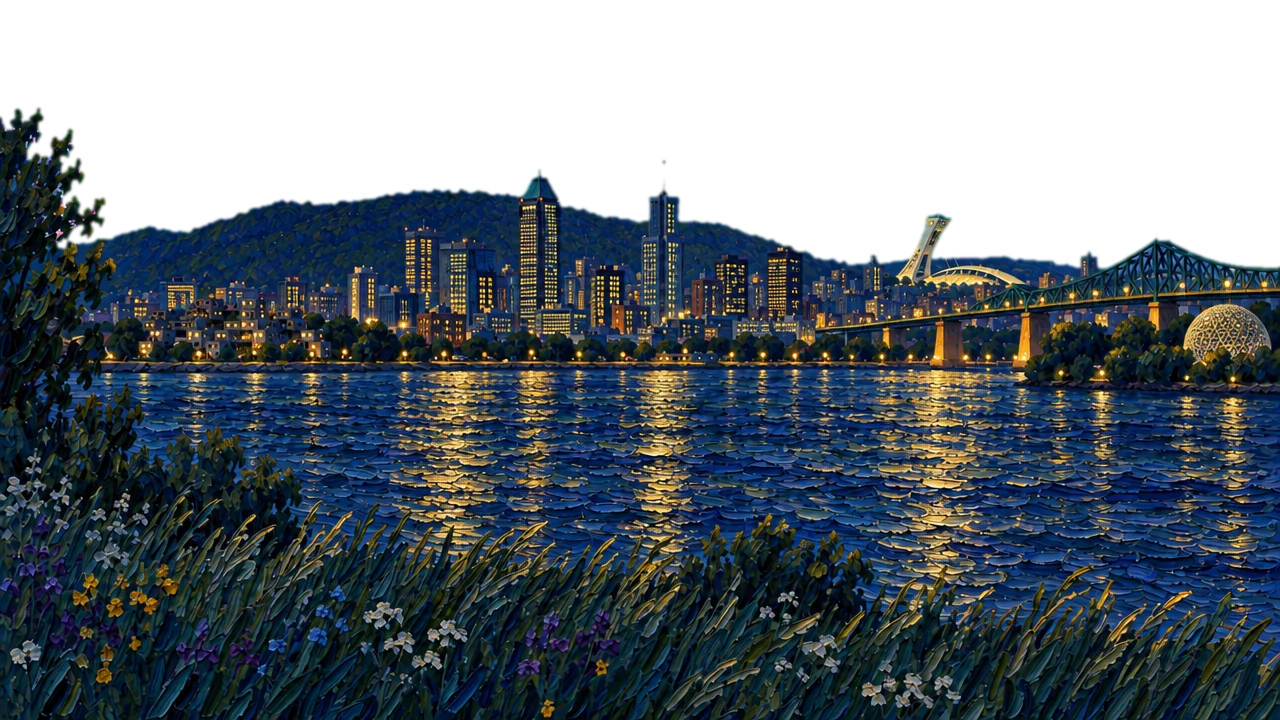
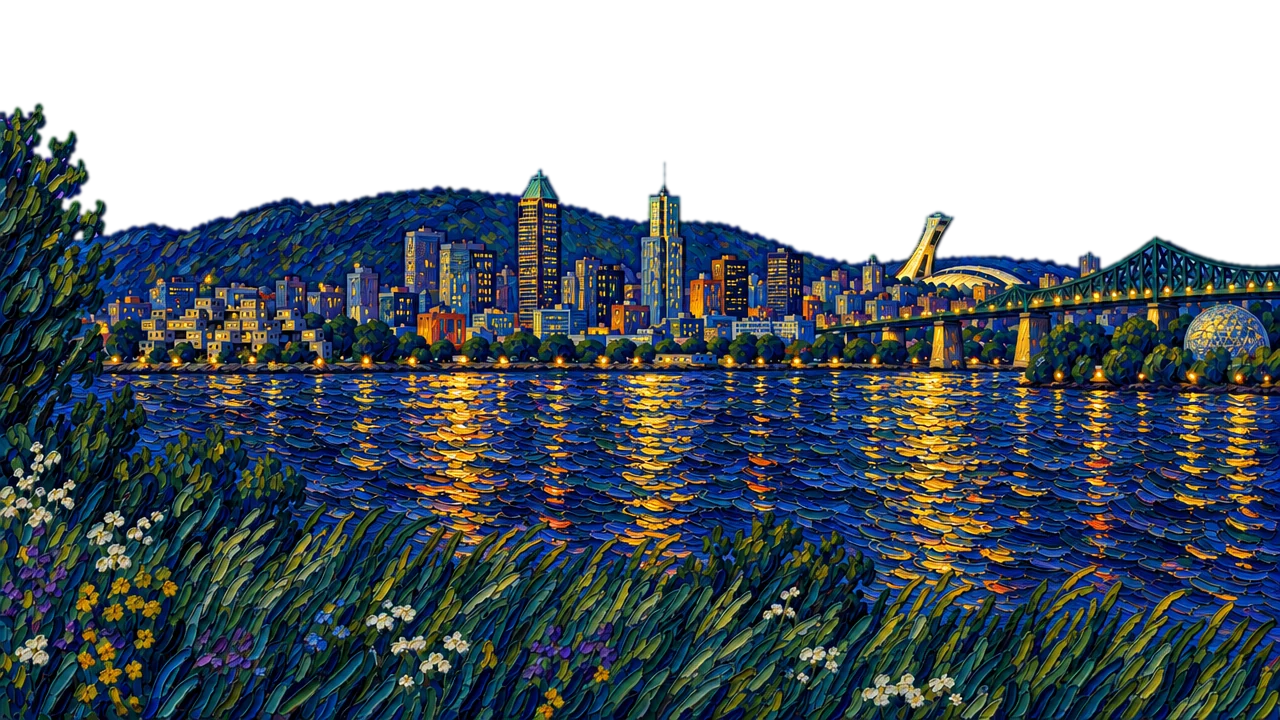
Smooth flowing sky, sun above the skyline, Montreal repainted in Van Gogh style
The sky strokes now flow continuously along the brush direction (two
offset layers on staggered phases, so nothing blinks or slides sideways).
The sun and moon rise and set at each city's skyline and the dusk glow sits
just above it. Montreal's day and night paintings are redone in the same
Van Gogh style as Tel Aviv.

diff --git a/js/scene/engine.js b/js/scene/engine.js
@@ -106,7 +106,7 @@ uniform float uKind, uWave;
 uniform vec3 uPDay[13], uPNight[13];
 uniform float uGlow[13];
 uniform sampler2D uPlA, uPlB;            // painted plates: day and night, the sky cut out in alpha
-uniform float uImgAspect, uWarm, uPlFade;
+uniform float uImgAspect, uWarm, uPlFade, uSkyY;
 uniform vec4 uBand;                      // image v: sky ends, water starts, water ends, grass starts
 out vec4 o;
 vec3 overlay(vec3 b, float a){ return mix(2. * a * b, 1. - 2. * (1. - a) * (1. - b), step(.5, b)); }
@@ -150,12 +150,10 @@ vec4 flowStroke(vec2 p, float cell, float seed){
     vec4 h = hash4(c + seed * 31.7);
     vec2 ctr = c + h.xy;
     vec2 dir = flow(ctr * cell);
-    // each stroke glides along its own direction, then thins away while a new one is laid in
-    float life = fract(uT * (.035 + h.y * .03) + h.z * 7.);
-    vec2 d = q - ctr - dir * (life - .5) * .8;
+    vec2 d = q - ctr;
     d = vec2(dot(d, dir), dot(d, vec2(-dir.y, dir.x)));
     float len = 1.05 + h.w * .8, u = d.x / len;
-    float w = (.25 + h.z * .14) * (1. - u * u * .55) * smoothstep(0., .14, sin(3.14159 * life));
+    float w = (.25 + h.z * .14) * (1. - u * u * .55);
     if (abs(u) < 1. && abs(d.y) < w){
       float pr = fract(h.x * 7.13 + h.y * 3.71 + h.w * 1.37);
       if (pr > best){
@@ -167,19 +165,29 @@ vec4 flowStroke(vec2 p, float cell, float seed){
   }
   return res;
 }
+vec3 paintAt(vec2 sp, vec3 g, float fr, float seed){
+  vec4 k = flowStroke(sp, 14., seed);
+  // between the strokes the darker ground shows, as on a real canvas
+  vec3 c = k.w > 0. ? overlay(g, clamp(.5 + (k.x - .5) * .8 + (fr - .5) * .12, 0., 1.)) * (1. - .14 * abs(k.y))
+                    : g * mix(.74, .84, fr);
+  float on = step(0., k.w);
+  c = mix(c, c * vec3(1.1, 1.05, .82) + vec3(.07, .06, 0.), smoothstep(.75, .92, k.z) * .6 * (1. - uNight * .3) * on);
+  return mix(c, c * vec3(.8, .87, 1.1), smoothstep(.25, .08, k.z) * .5 * on);
+}
 vec3 skyCol(vec2 p, float y, float fr){
+  y *= uSkyY;
   vec3 g = y < .42 ? mix(uS1, uS2, y / .42) : mix(uS2, uS3, clamp((y - .42) / .28, 0., 1.));
   float gl0 = dot(g, vec3(.2126, .7152, .0722));
   g = clamp(mix(vec3(gl0), g, 1.45) * vec3(.94, .98, 1.08), 0., 1.);   // Van Gogh's skies are deeper and bluer than life
-  vec2 sp = p;
-  vec4 a = flowStroke(sp, 15., 1.), b = flowStroke(sp + 7., 9., 2.);
-  vec4 k = b.w > 0. && b.z > .45 ? b : a;           // small strokes lie over the big ones here and there
-  // between the strokes the darker ground shows, as on a real canvas
-  vec3 c = k.w > 0. ? overlay(g, clamp(.5 + (k.x - .5) * .8 + (fr - .5) * .12, 0., 1.)) * (1. - .14 * abs(k.y))
-                    : g * mix(.72, .82, fr);
-  float pick = k.z;
-  c = mix(c, c * vec3(1.1, 1.05, .82) + vec3(.07, .06, 0.), smoothstep(.75, .92, pick) * .6 * (1. - uNight * .3) * step(0., k.w));
-  c = mix(c, c * vec3(.8, .87, 1.1), smoothstep(.25, .08, pick) * .5 * step(0., k.w));
+  // the paint flows: two copies of the strokes slide along the local brush direction, each fading out
+  // as it is reset while the other is at its fullest, so the motion never jumps. Each patch of sky
+  // runs on its own phase, so the sky never pulses as one.
+  vec2 fd = flow(p);
+  float ph = uT / 9. + vnoise(p / 260.) * 2.;
+  float p0 = fract(ph), p1 = fract(ph + .5), w0 = 1. - abs(2. * p0 - 1.);
+  vec3 c0 = paintAt(p - fd * p0 * 46., g, fr, 1.), c1 = paintAt(p - fd * p1 * 46. + vec2(53., 29.), g, fr, 3.);
+  vec3 c = mix(c1, c0, smoothstep(.3, .7, w0));   // mostly one layer at a time, so the strokes stay crisp
+  float kt = clamp(.5 + dot(c - g, vec3(1.)) * 1.2, 0., 1.);   // how light the paint is here, for clouds and halos
   vec2 sc = floor(p / 38.); vec4 sth = hash4(sc + 5.1);
   float sd = length(p - (sc + .15 + sth.xy * .7) * 38.);
   float star = step(.72, sth.z) * smoothstep(1.5 + sth.w, .2, sd) * (.65 + .35 * sin(uT * 2. + sth.w * 30.));
@@ -200,7 +208,7 @@ vec3 skyCol(vec2 p, float y, float fr){
       float d1 = fbm((cp - vec2(0., 16.)) / vec2(340., 110.));
       float shade = clamp((d0 - d1) * 4.5 + .62, 0., 1.);
       vec3 light = mix(uS2 * 1.2 + .1, vec3(.98, .97, .95), uDay * .8), dark = mix(uS1 * 1.1, vec3(.62, .64, .7), uDay * .7);
-      c = mix(c, mix(dark, light, shade) * (.86 + k.x * .22 - .08 * abs(k.y)), a * .85);   // clouds are painted with the same strokes
+      c = mix(c, mix(dark, light, shade) * (.84 + kt * .26), a * .85);   // clouds are painted with the same strokes
       star *= 1. - a;
     }
   }
@@ -209,7 +217,7 @@ vec3 skyCol(vec2 p, float y, float fr){
     vec3 o = i == 0 ? uSun : uMoon;
     if (o.z <= 0.) continue;
     float d = length(p - o.xy * uRes), R = clamp(uRes.x * .035, 34., 54.);
-    float ring = exp(-d / (R * 2.6)) * (.55 + .45 * sin(d * .16 - uT * 1.1 + k.x * 1.5)) * smoothstep(R * .95, R * 1.3, d);
+    float ring = exp(-d / (R * 2.6)) * (.55 + .45 * sin(d * .16 - uT * 1.1 + kt * 1.5)) * smoothstep(R * .95, R * 1.3, d);
     c += ring * o.z * (i == 0 ? vec3(1., .82, .35) * .5 : vec3(.95, .92, .7) * .38);
   }
   return c;
@@ -587,6 +595,7 @@ export function createEngine(cv){
     gl.uniform3fv(m.u('uSun'), sky.sun); gl.uniform3fv(m.u('uMoon'), sky.moon);
     gl.uniform1f(m.u('uNight'), sky.night); gl.uniform1f(m.u('uDay'), sky.day);
     gl.uniform1f(m.u('uCover'), live.cover); gl.uniform1f(m.u('uDrift'), live.drift); gl.uniform1f(m.u('uT'), live.rt);
+    gl.uniform1f(m.u('uSkyY'), scene?.horizon ? .66 / scene.horizon : 1);
     gl.uniform1f(m.u('uKind'), palette.kind); gl.uniform1f(m.u('uWave'), live.wind);
     if (palette.kind === 2){
       const A = plateTex('day'), B = plateTex('night') || A;

diff --git a/js/scene/sky.js b/js/scene/sky.js
@@ -30,12 +30,12 @@ export function newSky(){
   return {s1: [28, 33, 64], s2: [46, 47, 90], s3: [74, 63, 107], sun: [0, 0, 0], moon: [0, 0, 0], light: .36, sat: .7, night: 1, day: 0};
 }
 
-/** Writes the colours, orbs and light for `hourFrac` (local hours, 0..24) into `sky`. */
-export function paintSky(sky, hf, sunVeil = 0){
+/** Writes the colours, orbs and light for `hourFrac` (local hours, 0..24) into `sky`. `horizon`: where the orbs rise and set, as a fraction of the height. */
+export function paintSky(sky, hf, sunVeil = 0, horizon = .76){
   const [t, m, h] = skyAt(hf);
   sky.s1 = t; sky.s2 = m; sky.s3 = h;
-  // sun travels 6:00 -> 19:00, moon 19:00 -> 6:00, along an arc that dips behind the hills
-  const arc = p => [(8 + p * 84) / 100, (76 - Math.sin(Math.PI * Math.min(1, Math.max(0, p))) * 62) / 100, p >= -0.04 && p <= 1.04 ? 1 - sunVeil : 0];
+  // sun travels 6:00 -> 19:00, moon 19:00 -> 6:00, along an arc from the horizon (the hills, or a city's skyline) up to 14% from the top
+  const arc = p => [(8 + p * 84) / 100, horizon - Math.sin(Math.PI * Math.min(1, Math.max(0, p))) * (horizon - .14), p >= -0.04 && p <= 1.04 ? 1 - sunVeil : 0];
   sky.sun = arc((hf - 6) / 13);
   sky.moon = arc((((hf - 19) % 24) + 24) % 24 / 11);
   sky.light = (hf > 5 && hf < 20) ? Math.max(0.36, Math.min(1, 1.25 * Math.sin(Math.PI * (hf - 5) / 15))) : 0.36;

diff --git a/test/sky.test.js b/test/sky.test.js
@@ -1,6 +1,6 @@
 import { test } from 'node:test';
 import assert from 'node:assert/strict';
-import { skyHour } from '../js/scene/sky.js';
+import { skyHour, paintSky, newSky } from '../js/scene/sky.js';
 
 const near = (a, b) => assert.ok(Math.abs(a - b) < 1e-6, `${a} != ${b}`);
 
@@ -19,4 +19,22 @@ test('spreads the night evenly between sunset and the next sunrise', () => {
 test('falls back to the clock hour without sun times', () => {
   near(skyHour(14.25, NaN, NaN), 14.25);
   near(skyHour(14.25, null, 18), 14.25);
+});
+
+test('the sun rises from the given horizon and stays above it through the day', () => {
+  const sky = newSky();
+  paintSky(sky, 6, 0, .36);
+  near(sky.sun[1], .36);
+  for (const h of [8, 10, 12.5, 15, 18]){
+    paintSky(sky, h, 0, .36);
+    assert.ok(sky.sun[1] < .36 && sky.sun[1] >= .12, `${h}: ${sky.sun[1]}`);
+  }
+  paintSky(sky, 12.5, 0, .36);
+  near(sky.sun[1], .14);
+});
+
+test('without a horizon the arc dips behind the meadow hills as before', () => {
+  const sky = newSky();
+  paintSky(sky, 6);
+  near(sky.sun[1], .76);
 });

diff --git a/js/scene/background.js b/js/scene/background.js
@@ -75,7 +75,7 @@ export function startBackground(ctx, engine){
     if (engine && k !== wxKey){ wxKey = k; applyWeather(engine.live, w); }
     const sky = engine ? engine.sky : {};
     const veil = engine ? Math.min(.85, Math.max(0, (engine.live.coverT - .6) / .35)) : 0;
-    paintSky(sky, skyHour(hourFrac(T), ...sunOf(T, home)), veil);
+    paintSky(sky, skyHour(hourFrac(T), ...sunOf(T, home)), veil, scene.horizon ?? .76);
     const root = document.documentElement.style;
     root.setProperty('--s1', rgb(sky.s1)); root.setProperty('--s2', rgb(sky.s2)); root.setProperty('--s3', rgb(sky.s3));
     document.body.classList.toggle('day', lum(sky.s2) > 0.62);

diff --git a/js/scene/scenes/montreal.js b/js/scene/scenes/montreal.js
@@ -11,5 +11,6 @@ export default {
   plates: {day: plate('day'), night: plate('night')},
   aspect: 16 / 9,
   // in image height from the top: where the river runs and where the grass starts
-  bands: {water: [.51, .79], grass: .73},
+  bands: {water: [.52, .79], grass: .73},
+  horizon: .34,   // the sun and moon rise and set behind the mountain
 };

diff --git a/js/scene/scenes/telaviv.js b/js/scene/scenes/telaviv.js
@@ -11,4 +11,5 @@ export default {
   aspect: 16 / 9,
   // in image height from the top: the sea runs from below the beach to the bottom edge; no grass
   bands: {water: [.62, 1.02]},
+  horizon: .4,   // the sun and moon rise and set behind the skyline
 };
